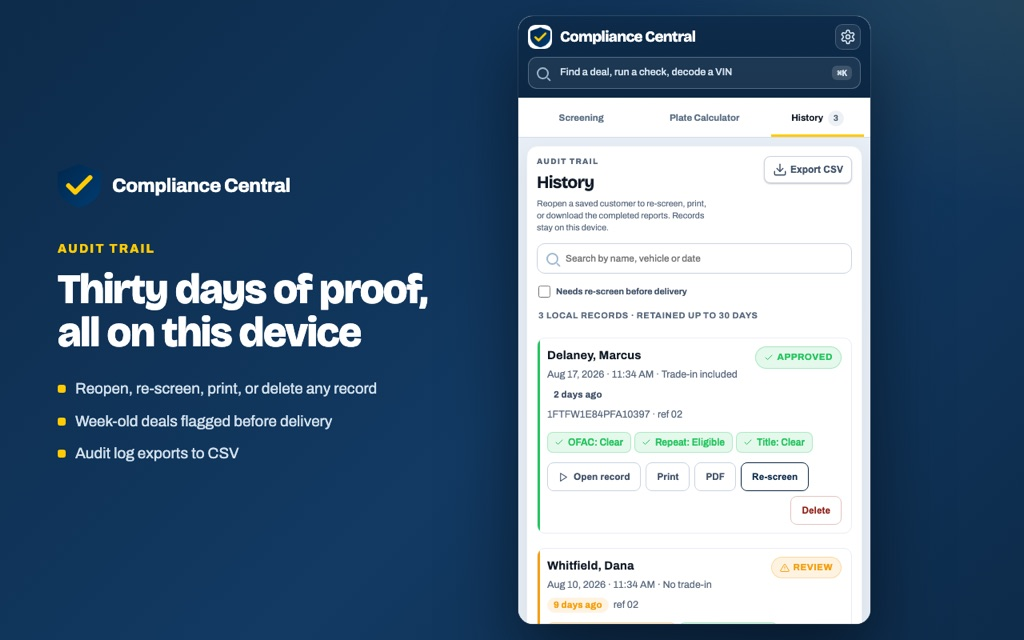
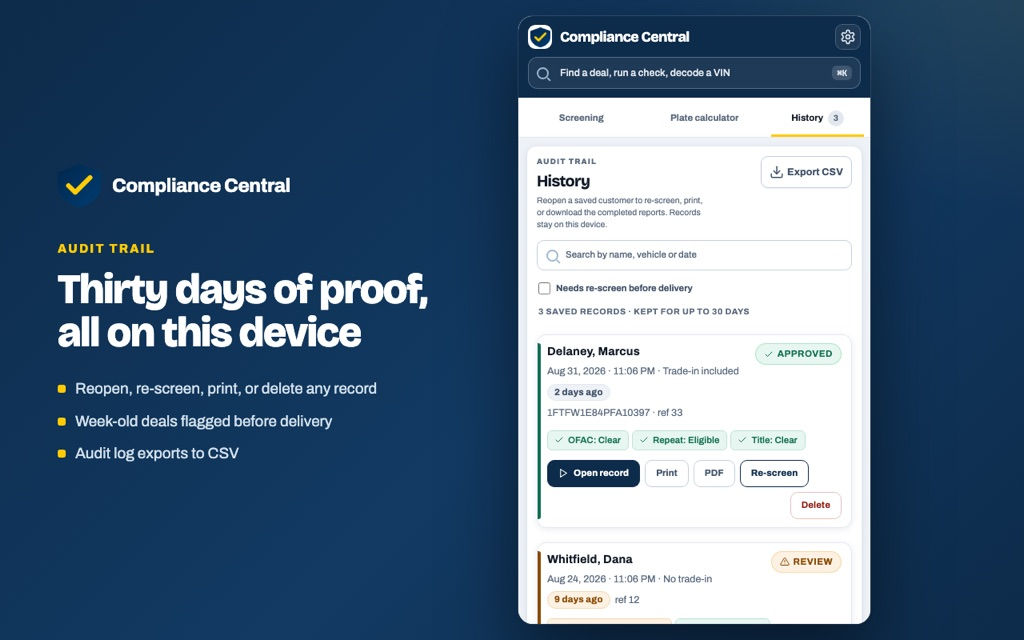
Give the repository a front door
A public repo with no README opens on a bare file listing, which is a poor
introduction to a product being shown to other dealers and to Web Store
reviewers. This says what the thing is, what each of the three checks
actually talks to, how to install either the published build or a test
build, and where everything lives.

Two claims were written carefully rather than generously. The privacy
summary says an OFAC-only check transmits nothing — which is what the
policy actually claims — rather than implying no data ever leaves during
a full run, when the MDOS and SOS checks plainly do send fields to the
state. And the licence section states the real position (no licence
chosen, so default copyright) instead of pointing at a LICENSE file that
does not exist.

The site screenshots were regenerated from the current interface. They
dated from 18 August and showed a panel that no longer exists — the tall
scan block, the old status wording, the pre-density layout.

diff --git a/README.md b/README.md
@@ -1,0 +1,116 @@
+# Compliance Central
+
+**Michigan dealer compliance, in one Chrome side panel.**
+
+Running a deal in Michigan means checking the same buyer in three different places: the
+U.S. Treasury OFAC sanctions list, the Michigan Department of State's Repeat Offender
+record, and the title and lien status of the trade. Three sites, three searches, three
+sets of paperwork — while a customer waits at the desk.
+
+Compliance Central runs all three from a side panel that sits beside the CRM you already
+have open, then prints or exports the record for the deal jacket.
+
+![The screening workspace, the verdict, and the plate-fee calculator](docs/images/screen-1.jpg)
+
+---
+
+## What it checks
+
+| Check | Source | Runs |
+| --- | --- | --- |
+| **OFAC sanctions screening** | U.S. Treasury SDN list | Entirely on your computer — the list is downloaded and searched locally, so no customer name is transmitted for this check |
+| **Repeat Offender** | Michigan MDOS online services | Over HTTPS through the project's backend, which drives the state's own site |
+| **Title & Lien** | Michigan MDOS online services | Same, using the trade-in VIN |
+| **Plate fee** | Michigan SOS fee calculator | The state's own calculator, so the number is the state's, not an estimate of ours |
+
+Each run captures the state's own page as evidence and produces a printable record with
+your dealership's name and logo on it.
+
+## Other things it does
+
+- **Scan the buyer's ID with a phone.** A QR code pairs your phone to the panel over an
+  encrypted channel; you scan the PDF417 barcode on the back of the licence and the buyer
+  fields fill in. The images stay on the phone — only the decoded text is sent.
+- **Keeps thirty days of records** on the device, so a deal can be reopened, re-screened
+  or reprinted, and exports an audit CSV.
+- **Reminds you to re-screen** a deal that has aged before delivery.
+
+## Install
+
+**Published build —** [Chrome Web Store](https://chromewebstore.google.com/detail/compliance-central-michig/oijkbdclicekpggjblgknnphfdafdgod)
+
+**Test build —** download the latest packaged zip:
+
+```
+https://github.com/TechSavvyJoe/compliance-central/releases/latest/download/compliance-central-1.6.0.zip
+```
+
+Extract it, then in Chrome go to `chrome://extensions`, turn on **Developer mode**, choose
+**Load unpacked**, and select the folder that has `manifest.json` sitting directly inside
+it. (If you only see another folder, go one level deeper.)
+
+**From source —** clone the repo and load the checkout itself; `manifest.json` is at the
+root, so the repo folder loads unpacked as-is.
+
+```bash
+git clone https://github.com/TechSavvyJoe/compliance-central.git
+```
+
+## Repository layout
+
+| Path | What lives there |
+| --- | --- |
+| `manifest.json`, `service-worker.js`, `sidepanel.*` | The extension itself |
+| `src/sidepanel/` | Panel modules — checks, results, history, reports, export |
+| `src/worker/` | Background orchestration and the individual check runners |
+| `lib/` | Shared config, storage keys, retention rules, vendored jsPDF/QR |
+| `ofac/` | On-device SDN storage and name search |
+| `docs/` | The public site and the phone scanner page, served by GitHub Pages |
+| `tests/` | Node test suites (`npm test`) |
+| `tools/` | Packaging, package verification, store-asset capture |
+| `store-assets/` | Chrome Web Store listing copy and imagery |
+| `specs/`, `findings/` | Design documents and a written-up security finding |
+
+The backend that drives the MDOS and SOS sites lives in a separate repository,
+`compliance-central-api`.
+
+## Development
+
+```bash
+npm install
+npm test            # 351 tests
+npm run lint
+npm run package     # build the Web Store zip
+```
+
+See [DEVELOPMENT.md](DEVELOPMENT.md) for the details, including which scripts need
+extra dependencies.
+
+Pushing a `v*` tag runs the same checks and publishes a downloadable build:
+
+```bash
+git tag v1.6.1 && git push origin v1.6.1
+```
+
+## Privacy
+
+The full policy is at
+[techsavvyjoe.github.io/compliance-central](https://techsavvyjoe.github.io/compliance-central/).
+In short: the OFAC search itself runs against a list stored on your machine, so an
+OFAC-only check transmits nothing; the MDOS and SOS checks do send the fields the state's
+own forms ask for, over HTTPS; saved records stay on the machine for up to thirty days;
+and nothing is sold, shared or used for advertising. Read the policy for the specifics —
+this paragraph is a summary, not the terms.
+
+## What this is not
+
+Compliance Central is a tool that runs searches and records what they returned. It is not
+an OFAC determination, not legal advice, and not a certification that a deal is compliant.
+A no-match result does not by itself establish that a party is legally cleared, and
+potential matches require human review. It is not issued or endorsed by the U.S. Treasury,
+OFAC, the State of Michigan, or the Michigan Secretary of State.
+
+## License
+
+No licence has been chosen, so default copyright applies: all rights reserved by the
+author. The source is public to be read and reviewed, not re-used.
